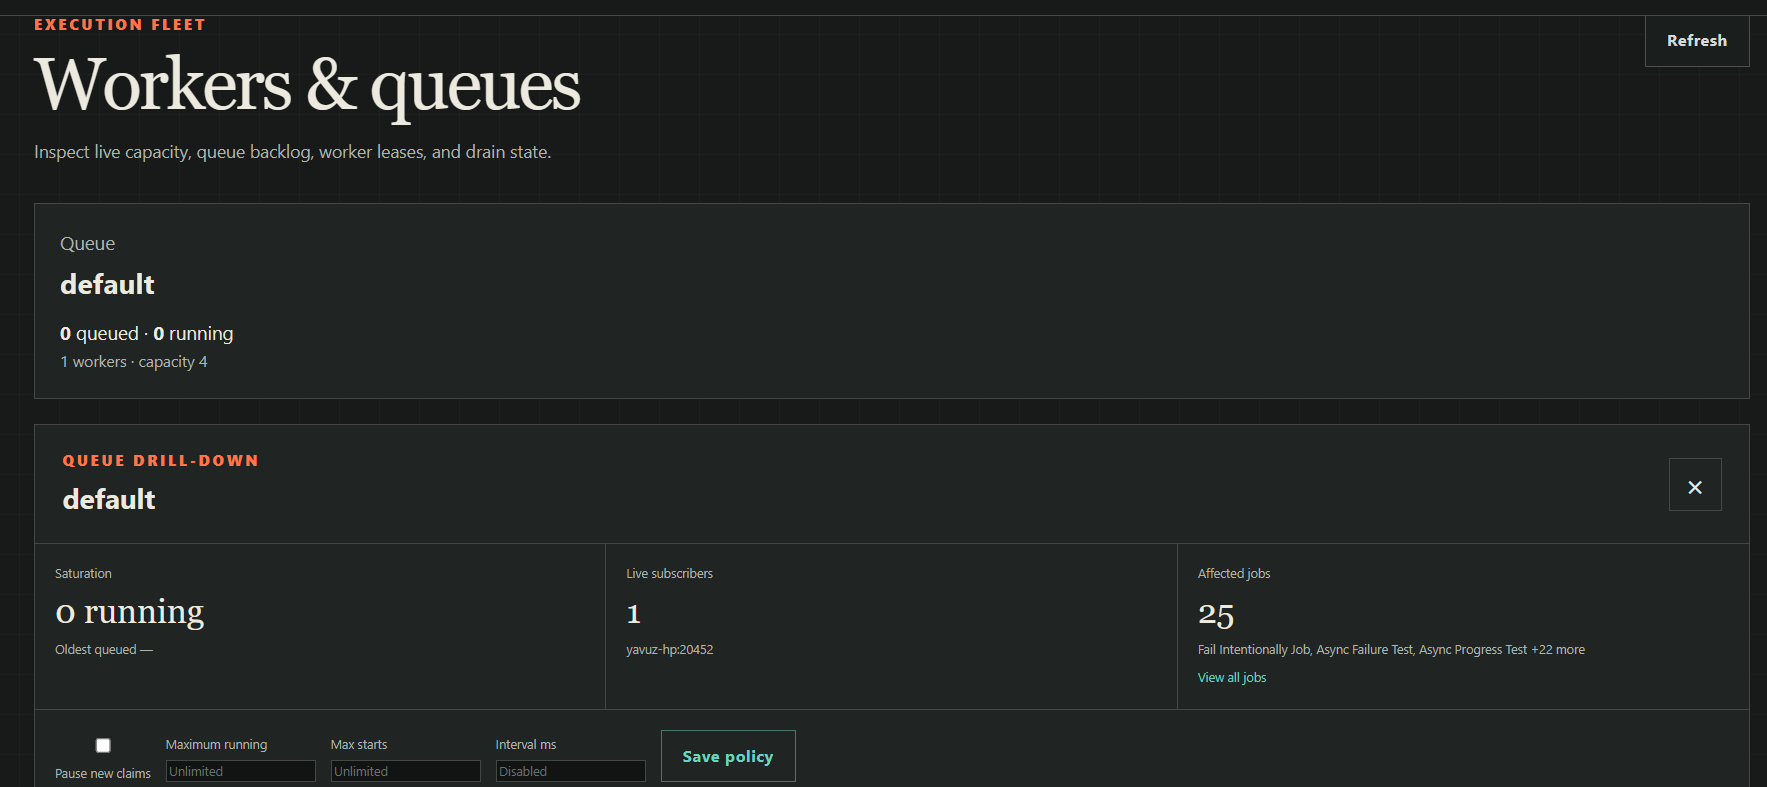
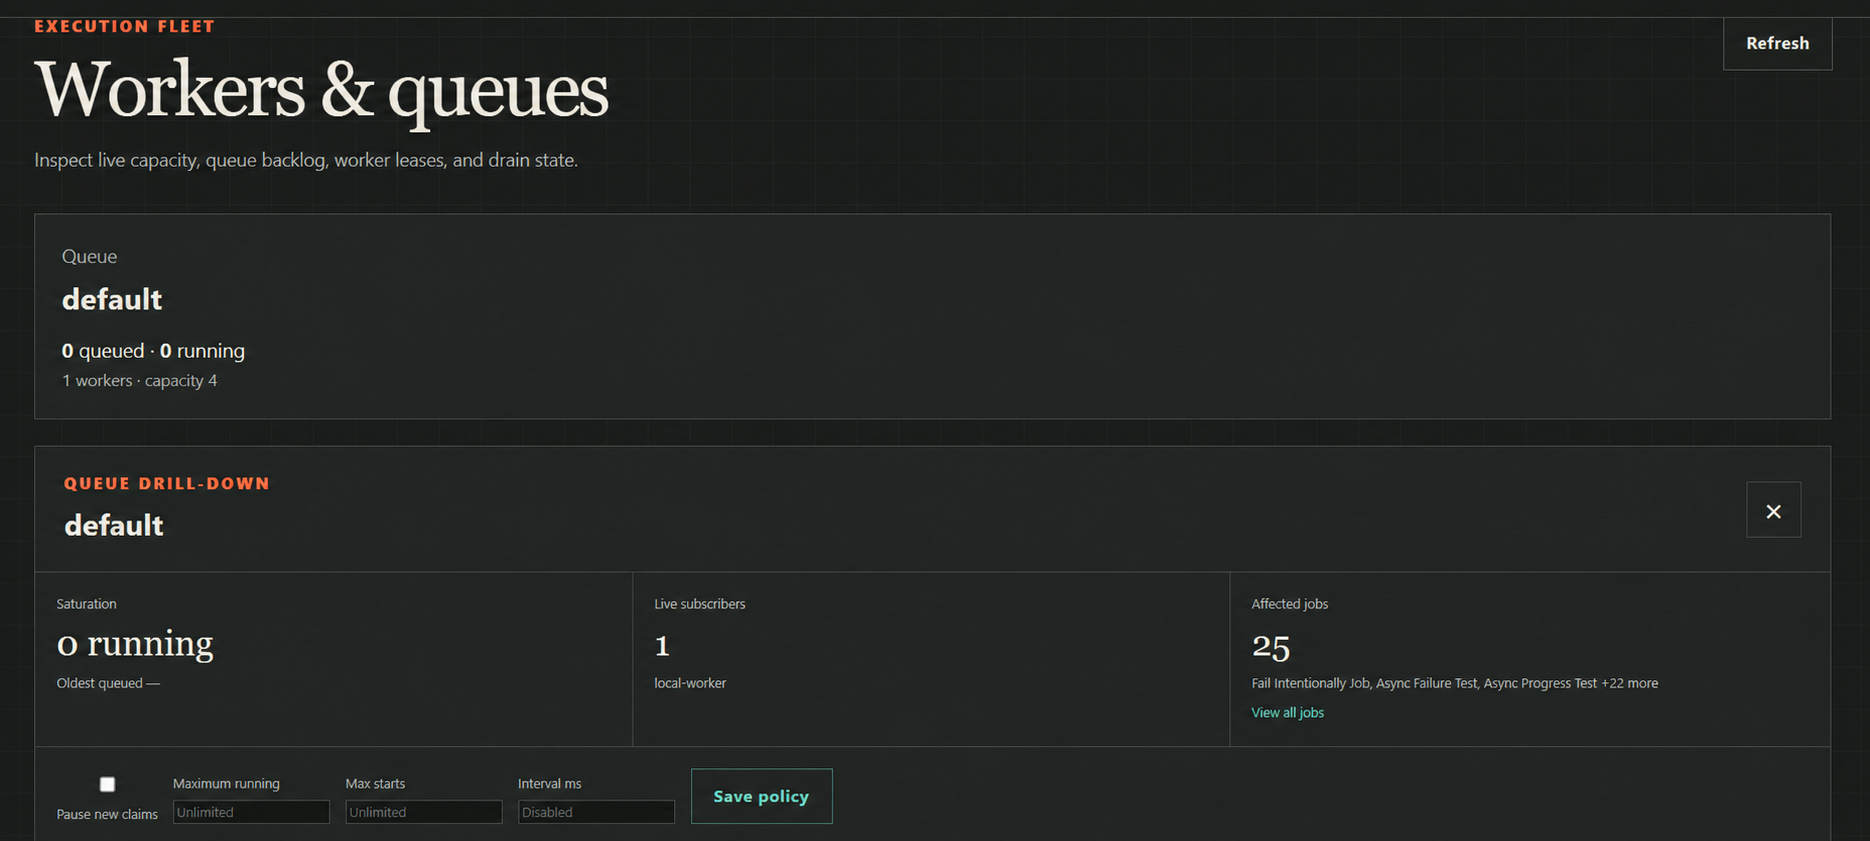
feat: isolate worker execution

diff --git a/src/config.ts b/src/config.ts
@@ -1,3 +1,5 @@
+import path from 'node:path';
+
 export interface AppConfig {
     databaseUrl: string;
     dbPoolMax: number;
@@ -7,6 +9,9 @@ export interface AppConfig {
     workerHeartbeatMs: number;
     executionLeaseMs: number;
     workerStaleMs: number;
+    embeddedWorkerEnabled: boolean;
+    workerWorkDirectory: string | undefined;
+    workerRequireNonAdmin: boolean;
     schedulerPollMs: number;
     shutdownGraceMs: number;
     webhookConcurrency: number;
@@ -33,6 +38,13 @@ export function loadConfig(env: NodeJS.ProcessEnv = process.env): AppConfig {
         workerHeartbeatMs: positiveInteger(env.WORKER_HEARTBEAT_MS, 5_000, 'WORKER_HEARTBEAT_MS'),
         executionLeaseMs: positiveInteger(env.EXECUTION_LEASE_MS, 20_000, 'EXECUTION_LEASE_MS'),
         workerStaleMs: positiveInteger(env.WORKER_STALE_MS, 30_000, 'WORKER_STALE_MS'),
+        embeddedWorkerEnabled: booleanValue(
+            env.EMBEDDED_WORKER_ENABLED,
+            env.NODE_ENV !== 'production',
+            'EMBEDDED_WORKER_ENABLED'
+        ),
+        workerWorkDirectory: absolutePath(env.WORKER_WORK_DIRECTORY, 'WORKER_WORK_DIRECTORY'),
+        workerRequireNonAdmin: booleanValue(env.WORKER_REQUIRE_NON_ADMIN, false, 'WORKER_REQUIRE_NON_ADMIN'),
         schedulerPollMs: positiveInteger(env.SCHEDULER_POLL_MS, 1000, 'SCHEDULER_POLL_MS'),
         shutdownGraceMs: positiveInteger(env.SHUTDOWN_GRACE_MS, 10000, 'SHUTDOWN_GRACE_MS'),
         webhookConcurrency: positiveInteger(env.WEBHOOK_CONCURRENCY, 2, 'WEBHOOK_CONCURRENCY'),
@@ -109,6 +121,15 @@ function nonEmptyString(value: string | undefined, name: string): string | undef
     if (value === undefined) return undefined;
     if (value.trim().length === 0) throw new Error(`${name} must be non-empty when provided.`);
     return value;
+}
+
+function absolutePath(value: string | undefined, name: string): string | undefined {
+    const resolved = nonEmptyString(value, name);
+    if (resolved === undefined) return undefined;
+    if (!path.isAbsolute(resolved)) {
+        throw new Error(`${name} must be an absolute path.`);
+    }
+    return resolved;
 }
 
 function positiveInteger(value: string | undefined, fallback: number, name: string): number {

diff --git a/src/services/JobExecutionManager.ts b/src/services/JobExecutionManager.ts
@@ -13,6 +13,7 @@ export interface WorkerRuntimeOptions {
     heartbeatMs?: number;
     leaseMs?: number;
     schedulerEnabled?: boolean;
+    workerEnabled?: boolean;
 }
 
 export class JobExecutionManager {
@@ -32,6 +33,7 @@ export class JobExecutionManager {
     private readonly heartbeatMs: number;
     private readonly leaseMs: number;
     private readonly schedulerEnabled: boolean;
+    private readonly workerEnabled: boolean;
 
     constructor(
         private readonly executions: ExecutionRepository,
@@ -47,20 +49,23 @@ export class JobExecutionManager {
         this.heartbeatMs = options.heartbeatMs ?? 5_000;
         this.leaseMs = options.leaseMs ?? 20_000;
         this.schedulerEnabled = options.schedulerEnabled ?? true;
+        this.workerEnabled = options.workerEnabled ?? true;
     }
 
     get started(): boolean { return this.servicesStarted; }
-    get capacity(): number { return this.workerConcurrency; }
+    get capacity(): number { return this.workerEnabled ? this.workerConcurrency : 0; }
 
     async start(): Promise<void> {
-        if (this.acceptingWork) return;
+        if (this.servicesStarted) return;
         await this.executions.reconcileExpiredLeases();
-        this.workerId = await this.workers.register(this.workerName, this.queues, this.workerConcurrency);
         this.acceptingWork = true;
         this.servicesStarted = true;
-        await this.heartbeatTick();
+        if (this.workerEnabled) {
+            this.workerId = await this.workers.register(this.workerName, this.queues, this.workerConcurrency);
+            await this.heartbeatTick();
+        }
         if (this.schedulerEnabled) await this.schedulerTick();
-        await this.dispatcherTick();
+        if (this.workerEnabled) await this.dispatcherTick();
     }
 
     async cancel(executionId: string, actor?: AuthenticatedActor): Promise<ExecutionSummary> {

diff --git a/src/security/workerRuntime.ts b/src/security/workerRuntime.ts
@@ -1,0 +1,34 @@
+import { execFile } from 'node:child_process';
+import { constants as fsConstants, promises as fs } from 'node:fs';
+import path from 'node:path';
+import { promisify } from 'node:util';
+import type { AppConfig } from '../config.js';
+
+const execFileAsync = promisify(execFile);
+const WINDOWS_ADMINISTRATORS_SID = 'S-1-5-32-544';
+
+export async function prepareWorkerRuntime(config: Pick<AppConfig, 'workerRequireNonAdmin' | 'workerWorkDirectory'>): Promise<void> {
+    if (config.workerRequireNonAdmin && await isAdministratorAccount()) {
+        throw new Error('The standalone worker must run under a non-administrator operating-system account.');
+    }
+    if (config.workerWorkDirectory === undefined) return;
+    const directory = path.resolve(config.workerWorkDirectory);
+    await fs.mkdir(directory, { recursive: true });
+    await fs.access(directory, fsConstants.R_OK | fsConstants.W_OK | fsConstants.X_OK);
+    process.chdir(directory);
+    process.env.WORKER_WORK_DIRECTORY = directory;
+    console.log(`Worker working directory: ${directory}`);
+}
+
+async function isAdministratorAccount(): Promise<boolean> {
+    if (process.platform !== 'win32') return typeof process.getuid === 'function' && process.getuid() === 0;
+    try {
+        const { stdout } = await execFileAsync('whoami', ['/groups', '/fo', 'csv', '/nh'], {
+            windowsHide: true,
+            encoding: 'utf8'
+        });
+        return stdout.toUpperCase().includes(WINDOWS_ADMINISTRATORS_SID);
+    } catch (error: unknown) {
+        throw new Error(`Unable to verify the Windows worker account: ${error instanceof Error ? error.message : String(error)}`);
+    }
+}

diff --git a/tests/unit/hardening.test.ts b/tests/unit/hardening.test.ts
@@ -1,6 +1,8 @@
+import path from 'node:path';
 import { describe, expect, it, vi } from 'vitest';
 import { JobRunner } from '../../src/core/JobRunner.js';
 import { CommandExecutor } from '../../src/executors/CommandExecutor.js';
+import { resolveWorkerCwd } from '../../src/executors/executorSafety.js';
 import { RestApiExecutor } from '../../src/executors/RestApiExecutor.js';
 import type { Job, Step } from '../../src/types/index.js';
 import { fetchSameOrigin, readResponsePrefix, readResponseText } from '../../src/utils/outboundHttp.js';
@@ -56,6 +58,20 @@ describe('safe command execution', () => {
         if (!invalid.valid) expect(invalid.errors.map(issue => issue.code)).toEqual(expect.arrayContaining([
             'DYNAMIC_SHELL_COMMAND', 'DYNAMIC_EXECUTABLE', 'DYNAMIC_WORKING_DIRECTORY', 'UNSAFE_ENV_TEMPLATE'
         ]));
+    });
+
+    it('keeps command working directories inside the configured worker directory', () => {
+        const previous = process.env.WORKER_WORK_DIRECTORY;
+        const root = path.resolve('worker-test-root');
+        process.env.WORKER_WORK_DIRECTORY = root;
+        try {
+            expect(resolveWorkerCwd(undefined)).toBe(root);
+            expect(resolveWorkerCwd('nested')).toBe(path.join(root, 'nested'));
+            expect(() => resolveWorkerCwd('..')).toThrow(/must stay within WORKER_WORK_DIRECTORY/u);
+            expect(() => resolveWorkerCwd(path.join(root, '..', 'outside'))).toThrow(/must stay within WORKER_WORK_DIRECTORY/u);
+        } finally {
+            restoreEnvironment('WORKER_WORK_DIRECTORY', previous);
+        }
     });
 });
 

diff --git a/src/executors/CommandExecutor.ts b/src/executors/CommandExecutor.ts
@@ -2,7 +2,7 @@ import type { Step } from '../types/index.js';
 import type { ExecutorOptions, IStepExecutor } from './IStepExecutor.js';
 import { buildChildEnvironment, runProcess } from './processRunner.js';
 import { resolveContextTemplates } from '../utils/contextResolver.js';
-import { assertLiteral, resolveSafeEnvironment } from './executorSafety.js';
+import { assertLiteral, resolveSafeEnvironment, resolveWorkerCwd } from './executorSafety.js';
 
 export class CommandExecutor implements IStepExecutor {
     async execute(step: Step, context: Record<string, unknown>, options: ExecutorOptions): Promise<unknown> {
@@ -18,11 +18,12 @@ export class CommandExecutor implements IStepExecutor {
         if (cwd !== undefined && typeof cwd !== 'string') throw new Error('COMMAND CWD must be a string.');
         if (cwd !== undefined) assertLiteral(cwd, 'COMMAND CWD');
         const env = resolveSafeEnvironment(params.ENV, context, 'COMMAND ENV');
+        const resolvedCwd = resolveWorkerCwd(cwd);
         try {
             const base = {
                 timeoutMs,
                 signal: options.signal,
-                ...(cwd === undefined ? {} : { cwd }),
+                ...(resolvedCwd === undefined ? {} : { cwd: resolvedCwd }),
                 env: buildChildEnvironment(env)
             };
             const result = command !== undefined

diff --git a/tests/unit/security.test.ts b/tests/unit/security.test.ts
@@ -1,3 +1,4 @@
+import path from 'node:path';
 import { describe, expect, it } from 'vitest';
 import { loadConfig } from '../../src/config.js';
 import { hashPassword, verifyPassword } from '../../src/security/password.js';
@@ -51,6 +52,17 @@ describe('security primitives', () => {
             SECRETS_MASTER_KEY: Buffer.alloc(32, 1).toString('base64'),
             CORS_ALLOWED_ORIGINS: 'https://example.test'
         }).corsAllowedOrigins).toEqual(['https://example.test']);
+        expect(loadConfig({}).embeddedWorkerEnabled).toBe(true);
+        expect(loadConfig({ EMBEDDED_WORKER_ENABLED: 'false' }).embeddedWorkerEnabled).toBe(false);
+        expect(loadConfig({
+            NODE_ENV: 'production',
+            AUTH_COOKIE_SECURE: 'true',
+            CORS_ALLOWED_ORIGINS: 'https://example.test'
+        }).embeddedWorkerEnabled).toBe(false);
+        expect(loadConfig({ WORKER_REQUIRE_NON_ADMIN: 'true' }).workerRequireNonAdmin).toBe(true);
+        expect(loadConfig({ WORKER_WORK_DIRECTORY: path.resolve('worker-data') }).workerWorkDirectory)
+            .toBe(path.resolve('worker-data'));
+        expect(() => loadConfig({ WORKER_WORK_DIRECTORY: 'relative-worker-data' })).toThrow(/absolute path/u);
     });
 
     it('redacts managed secret values from persisted step outputs and errors', async () => {

diff --git a/tests/unit/workerRuntime.test.ts b/tests/unit/workerRuntime.test.ts
@@ -1,0 +1,31 @@
+import { describe, expect, it, vi } from 'vitest';
+import { JobExecutionManager } from '../../src/services/JobExecutionManager.js';
+import type { ExecutionRepository } from '../../src/repositories/ExecutionRepository.js';
+import type { WorkerRepository } from '../../src/repositories/WorkerRepository.js';
+
+describe('isolated worker topology', () => {
+    it('keeps the API manager scheduler-only when its embedded worker is disabled', async () => {
+        const executions = {
+            pool: {},
+            reconcileExpiredLeases: vi.fn().mockResolvedValue(undefined)
+        } as unknown as ExecutionRepository;
+        const workers = {
+            register: vi.fn(),
+            stop: vi.fn()
+        } as unknown as WorkerRepository;
+        const manager = new JobExecutionManager(executions, undefined, 4, 1000, undefined, {
+            repository: workers,
+            schedulerEnabled: false,
+            workerEnabled: false
+        });
+
+        await manager.start();
+        expect(manager.started).toBe(true);
+        expect(manager.capacity).toBe(0);
+        expect(workers.register).not.toHaveBeenCalled();
+
+        await manager.shutdown(0);
+        expect(manager.started).toBe(false);
+        expect(workers.stop).not.toHaveBeenCalled();
+    });
+});

diff --git a/src/executors/executorSafety.ts b/src/executors/executorSafety.ts
@@ -1,3 +1,4 @@
+import path from 'node:path';
 import { resolveContextTemplates } from '../utils/contextResolver.js';
 
 const TEMPLATE = /\{\{[^{}]+\}\}/u;
@@ -11,6 +12,18 @@ export function assertLiteral(value: string, label: string): void {
     if (containsContextTemplate(value)) {
         throw new Error(`${label} must be literal and cannot contain context templates.`);
     }
+}
+
+export function resolveWorkerCwd(value: string | undefined): string | undefined {
+    const configuredRoot = process.env.WORKER_WORK_DIRECTORY;
+    if (configuredRoot === undefined) return value;
+    const root = path.resolve(configuredRoot);
+    const candidate = value === undefined ? root : path.resolve(root, value);
+    const relative = path.relative(root, candidate);
+    if (relative === '' || (!relative.startsWith(`..${path.sep}`) && relative !== '..' && !path.isAbsolute(relative))) {
+        return candidate;
+    }
+    throw new Error(`COMMAND CWD must stay within WORKER_WORK_DIRECTORY (${root}).`);
 }
 
 export function resolveSafeEnvironment(

diff --git a/src/db/migrations.ts b/src/db/migrations.ts
@@ -1,13 +1,15 @@
 import { promises as fs } from 'node:fs';
 import path from 'node:path';
+import { fileURLToPath } from 'node:url';
 import type { DatabasePool } from './pool.js';
 
 const MIGRATION_PATTERN = /^(\d{3,})_(.+)\.sql$/u;
 const ADVISORY_LOCK_KEY = 'backgroundjobs-framework:migrations';
+const DEFAULT_MIGRATIONS_DIRECTORY = fileURLToPath(new URL('../../migrations', import.meta.url));
 
 export interface Migration { version: number; name: string; sql: string; }
 
-export async function readMigrations(directory = path.resolve(process.cwd(), 'migrations')): Promise<Migration[]> {
+export async function readMigrations(directory = DEFAULT_MIGRATIONS_DIRECTORY): Promise<Migration[]> {
     const names = await fs.readdir(directory);
     const migrations = await Promise.all(names.flatMap(name => {
         const match = MIGRATION_PATTERN.exec(name);

diff --git a/src/index.ts b/src/index.ts
@@ -40,7 +40,8 @@ try {
         config.schedulerPollMs,
         security.secrets,
         { repository: workerRepository, ...(config.workerName === undefined ? {} : { name: config.workerName }), queues: config.workerQueues,
-            heartbeatMs: config.workerHeartbeatMs, leaseMs: config.executionLeaseMs }
+            heartbeatMs: config.workerHeartbeatMs, leaseMs: config.executionLeaseMs,
+            workerEnabled: config.embeddedWorkerEnabled }
     );
     const webhookDispatcher = new WebhookDispatcher(webhookRepository, {
         concurrency: config.webhookConcurrency,

diff --git a/src/worker.ts b/src/worker.ts
@@ -5,8 +5,10 @@ import { ExecutionRepository } from './repositories/ExecutionRepository.js';
 import { WorkerRepository } from './repositories/WorkerRepository.js';
 import { createSecurityRuntime } from './security/runtime.js';
 import { JobExecutionManager } from './services/JobExecutionManager.js';
+import { prepareWorkerRuntime } from './security/workerRuntime.js';
 
 const config = loadConfig();
+await prepareWorkerRuntime(config);
 const pool = createPool(config.databaseUrl, config.dbPoolMax);
 
 try {

diff --git a/src/utils/contextResolver.ts b/src/utils/contextResolver.ts
@@ -89,7 +89,7 @@ function resolveString(
      * If the entire string is a template, return the original value.
      *
      * For example:
-     * "{{login.data.user}}" -> { id: 42, name: "Yavuz" }
+     * "{{login.data.user}}" -> { id: 42, name: "Example User" }
      *
      * Returning the original value prevents objects from becoming
      * the string "[object Object]".
